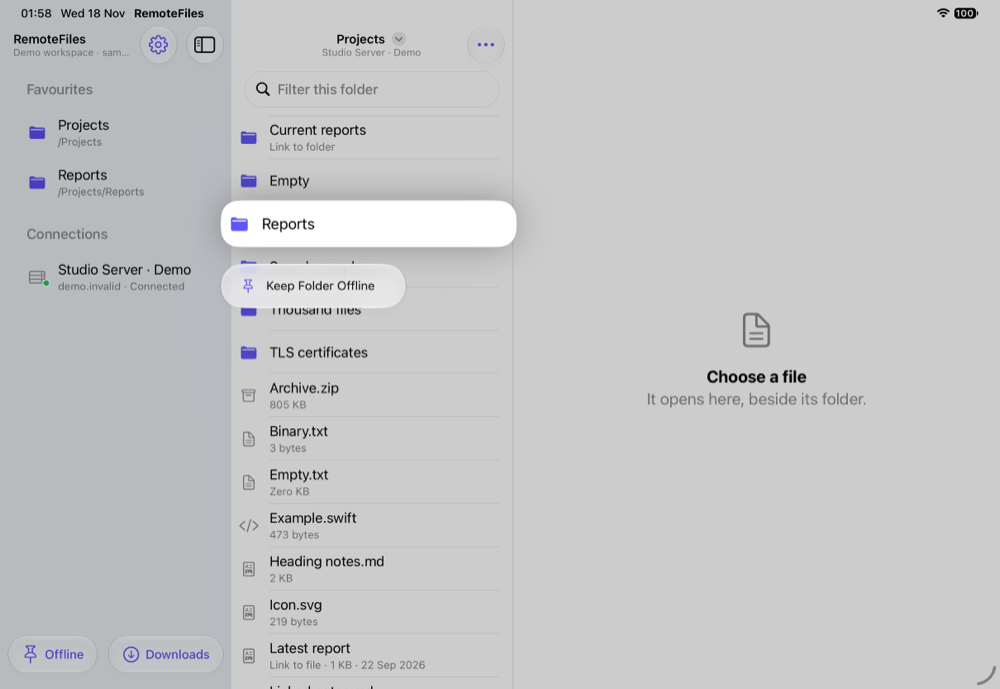
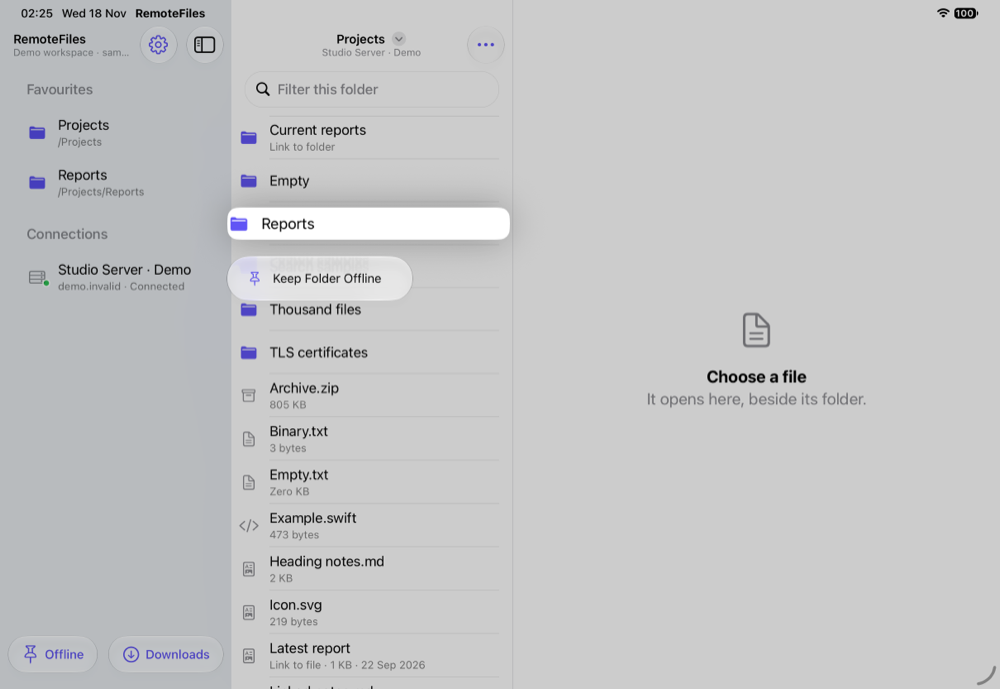
Fit the row preview to the row and correct the iPad record
The folder row's preview no longer reaches 8 points beyond the row; what
remains past the column edge is the system's lift. The session record now
names the build behind each run, separates the two HTML reading-position
tests from the five Markdown ones, says which hands-on checks match them,
and states per device what the offline and media checks covered.

Changed region(s): [[0.217, 0.2743, 0.527, 0.4572], [0.031, 0.0, 0.217, 0.0305]]

diff --git a/Sources/RemoteFilesUI/FolderView.swift b/Sources/RemoteFilesUI/FolderView.swift
@@ -430,7 +430,7 @@ struct FolderView: View {
         .disabled(destination == nil && resolving != nil)
         // On iPad the folder column's cells run on under the floating library, so the system's
         // preview of the whole cell, used without this shape, spread across both columns.
-        .contentShape(.contextMenuPreview, RoundedRectangle(cornerRadius: 12).inset(by: -8))
+        .contentShape(.contextMenuPreview, RoundedRectangle(cornerRadius: 12))
         .contextMenu {
             if let destination { OfflinePinActions(model: model, profile: profile, entry: destination, includeHidden: showHidden) }
         }

diff --git a/docs/MANUAL_ACCEPTANCE.md b/docs/MANUAL_ACCEPTANCE.md
@@ -11,7 +11,7 @@ Use a dedicated authorised test directory and the normal Mac account’s Remote 
 7. Profile a 1,000-entry folder and the generated 191,002-byte report on the device using Instruments SwiftUI / Animation Hitches. Record cold/warm timings, main-thread hitches and memory; do not interpret Simulator/loopback times as cellular performance. An attempt on the iPad recorded no app data before Instruments lost the device ([18 November iPad evidence](REAL_SERVER_ACCEPTANCE.md#18-november-2026-ipad-session)).
 8. In the authorised test directory, choose **Contents** and search a phrase inside a UTF-8 file whose name does not contain it. Check the source-line snippet, open/back retention, refresh after editing that file, hidden-file policy, cancellation on background/disconnect, and the partial-results explanation at a read limit. On iPad, verify the folder's search controls and snippets with the reader beside them, in a narrow window, with accessibility text sizes and VoiceOver. This journey passed on the iPad, including those iPad checks ([18 November iPad evidence](REAL_SERVER_ACCEPTANCE.md#18-november-2026-ipad-session)); it has not run on the iPhone.
 
-9. Save an individual file with **Keep Offline**, disconnect, relaunch and open it from **Offline Files** without network access. Verify its saved date, text/media controls and Share Original bytes. Use Find and Headings in a saved Markdown copy, zoom a saved image, and confirm a saved text or PDF copy reopens at its position after relaunch; these have only Simulator evidence. Update an authorized fixture, choose **Update Offline Copy**, and interrupt a later update: the last committed copy must remain readable. Remove only the local copy and verify the server original remains. Check Complete file protection while locked using a controlled device test; simulator permissions are not proof. Repeat the library flow in iPad regular and compact windows and with VoiceOver. On the iPhone everything except the file-protection check passed; an interrupted update gave no explanation until its time limit ([31 October evidence](REAL_SERVER_ACCEPTANCE.md#31-october-2026-iphone-session)). On the iPad the library flow passed, and the saved files could not be copied out of the app's container while the iPad was locked but could once it was unlocked ([18 November iPad evidence](REAL_SERVER_ACCEPTANCE.md#18-november-2026-ipad-session)); interrupting an update was not repeated there.
+9. Save an individual file with **Keep Offline**, disconnect, relaunch and open it from **Offline Files** without network access. Verify its saved date, text/media controls and Share Original bytes. Use Find and Headings in a saved Markdown copy, zoom a saved image, and confirm a saved text or PDF copy reopens at its position after relaunch. Update an authorized fixture, choose **Update Offline Copy**, and interrupt a later update: the last committed copy must remain readable. Remove only the local copy and verify the server original remains. Check Complete file protection while locked using a controlled device test; simulator permissions are not proof. Repeat the library flow in iPad regular and compact windows and with VoiceOver. On the iPhone, whose build then had no offline Find or Headings, the saved date, Share Original bytes, Update Offline Copy, an interrupted update and removal passed; the interrupted update gave no explanation until its time limit ([31 October evidence](REAL_SERVER_ACCEPTANCE.md#31-october-2026-iphone-session)). On the iPad the saved date, Find, Headings, image zoom, a plain-text position after relaunch, Share Original bytes, Update Offline Copy and removal passed in a regular window, and the saved files could not be copied out of the app's container while the iPad was locked but could once it was unlocked ([18 November iPad evidence](REAL_SERVER_ACCEPTANCE.md#18-november-2026-ipad-session)). A saved PDF's position after relaunch, an interrupted update, compact windows and VoiceOver in the offline library were not checked on the iPad.
 10. Choose **Keep Folder Offline** for a small controlled tree containing nested and empty directories, hidden files and symbolic links. Check the hidden-file choice and skipped-link count. Disconnect and browse the complete saved hierarchy; preview/share an original, background and relaunch. Change/add/delete remote members and choose **Update Offline Folder**; the replacement must include those changes. Interrupt an update or make a member unreadable and verify the old snapshot remains complete. Remove a saved folder while another window updates it and confirm it never reappears; independently saved files and overlapping snapshots must remain. Exercise a storage/depth limit and verify no partial folder is published. All but the multiwindow removal passed on the iPhone ([31 October evidence](REAL_SERVER_ACCEPTANCE.md#31-october-2026-iphone-session)); the multiwindow removal passed on the iPad ([18 November iPad evidence](REAL_SERVER_ACCEPTANCE.md#18-november-2026-ipad-session)). The storage and depth limits were not repeated there.
 11. While disconnected, follow relative Markdown links between saved sibling, nested and parent documents, plus same-document and linked heading fragments. Back must retain the source reading position. A missing/hidden/skipped target, unsupported type, query or path leaving the snapshot must explain the failure and retain the reader. Overlapping snapshots and individually saved copies must not substitute for folder members. Repeat between individual copies from the same saved connection route; other accounts/routes must not match. Update/remove an open source in another window and verify its file links require reopening. No file-link tap should reconnect or download missing content. The single-window cases passed on the iPhone; repeated link hops could exhaust the four offline preview leases ([31 October evidence](REAL_SERVER_ACCEPTANCE.md#31-october-2026-iphone-session)). On the iPad the link cases and eight hops in a row passed ([18 November iPad evidence](REAL_SERVER_ACCEPTANCE.md#18-november-2026-ipad-session)); the other-window and route cases were not checked.
 

diff --git a/docs/REAL_SERVER_ACCEPTANCE.md b/docs/REAL_SERVER_ACCEPTANCE.md
@@ -332,8 +332,10 @@ Not checked: iPad, and Escape on a hardware keyboard. Reduce Motion wasn't on th
 
 The first session on a physical iPad: an iPad Pro 11-inch (M5) (iOS 27.2.1, 24B156) against
 the MacBook Air's OpenSSH service, over Wi-Fi with a direct Tailscale route to the Mac's MagicDNS
-name. Automated runs used a signed Debug build of `9d131fe`; the hands-on pass used a signed
-Release build of the same commit. Fixtures were synthetic, generated for the session in a
+name. The first hosted core run used a signed Debug build of `d883793` (`main`). The runs after the
+store-key fix, the demo UI journeys and the Face ID check used a signed Debug build, and the
+hands-on pass a signed Release build, of the tree committed as `a3344ae`, before the offline reader
+and folder preview fixes. Fixtures were synthetic, generated for the session in a
 dedicated folder outside the repository and listed under [Setup](#ipad-setup).
 
 ### iPad setup
@@ -352,17 +354,19 @@ dedicated folder outside the repository and listed under [Setup](#ipad-setup).
 
 ### Automated on the device
 
-- **Hosted core suite** (`RemoteFilesTests`): 842 ran, 48 skipped (fixture-server, benchmark and
+- **Hosted core suite** (`RemoteFilesTests`, `d883793`): 842 ran, 48 skipped (fixture-server, benchmark and
   opt-in Face ID cases), 17 failed. The physical-only checks passed:
   `testTrustStoreWritesUseCompleteFileProtection`, `testDeviceKeychainPersistenceAndAccessibility`
   and `testBiometricKeychainItemIsStoredWithoutPromptingAndRemovable`.
   - Ten failures, about several windows and shared stores, came from the app's shared stores keying files by
     `standardizedFileURL.path`, which drops `/private` only once the shorter path exists. They
-    are fixed; see [CI history](CI_HISTORY.md#18-november-2026-shared-stores-on-a-device). After
-    the fix the six affected suites passed on the iPad (166 tests, three opt-in Face ID skips).
-  - Seven WebKit reading-position tests failed in both runs and remain open: two
-    `HTMLReadingPositionTests` (page zoom and root-zoom text size) and five `OverflowViewportTests`.
-    The same behaviours passed by hand (step 12 below).
+    are fixed; see [CI history](CI_HISTORY.md#18-november-2026-shared-stores-on-a-device). With the
+    fix (`a3344ae`) the six affected suites passed on the iPad (166 tests, three opt-in Face ID skips).
+  - Seven reading-position tests failed in both runs and remain open: two HTML
+    `HTMLReadingPositionTests` and five Markdown `OverflowViewportTests`. By hand, an HTML position
+    held through the reader's text size, rotation and window resizing (step 12 below), which
+    corresponds to the root-zoom test; nothing recorded matches the page-zoom test
+    (`WKWebView.pageZoom`) or the Markdown tests.
 - **Demo UI journeys** (`RemoteFilesUITests`): 13 passed, 22 failed, 1 skipped (the key import,
   which already skips on devices). The iPad workspace journey passed. Most failures are journeys
   written for the iPhone's stack navigation. Two looked iPad-specific: Subfolders → This Folder,
@@ -435,7 +439,7 @@ under Modifier Keys, so these results may differ from an attached keyboard.
 - **Folder row previews and focus rings spread across columns.** The folder column's cells run on
   under the floating library. The long-press preview now has its own shape; the keyboard focus
   ring, which the Simulator does not draw, is still too wide.
-- The keyboard and WebKit test findings above.
+- The keyboard and reading-position test findings above.
 
 | Offline reader before | Offline reader after |
 | --- | --- |
@@ -443,7 +447,7 @@ under Modifier Keys, so these results may differ from an attached keyboard.
 
 | Folder preview before | Folder preview after |
 | --- | --- |
-| <img src="screenshots/ipad/folder-preview-before.png" width="420" alt="Long-press preview of a folder row stretching from the screen edge across the library"> | <img src="screenshots/ipad/folder-preview-after.png" width="420" alt="The same preview inside the folder column"> |
+| <img src="screenshots/ipad/folder-preview-before.png" width="420" alt="Long-press preview of a folder row stretching from the screen edge across the library"> | <img src="screenshots/ipad/folder-preview-after.png" width="420" alt="The same preview following the row's bounds, overlapping the library divider by a few points"> |
 
 *Demo data on an iPad Pro 11-inch (M5) Simulator (iOS 27.2), reproducing what the device showed.*
 
@@ -457,7 +461,7 @@ under Modifier Keys, so these results may differ from an attached keyboard.
 
 Evidence on the MacBook Air: `/private/tmp/remotefiles-ipad-20261118/` holds the build and test
 logs, `core.xcresult` (first core run), `fix2.xcresult` (affected suites after the fix),
-`web.xcresult` (WebKit rerun), `ui.xcresult`, the four Face ID result bundles, `band-fixed` and
+`web.xcresult` (reading-position rerun), `ui.xcresult`, the four Face ID result bundles, `band-fixed` and
 `band-unfixed` (the offline regression with and without its fix), `session-log.md` (the hands-on
 record), the fixture and fixture-server scripts, `cold.trace`, and the iPad screenshots in
 `evidence/`, including the fixture server's log after the key change.

diff --git a/PREVIEW_STATUS.md b/PREVIEW_STATUS.md
@@ -6,9 +6,9 @@ This is a dated record of feature work and validation, not a live test dashboard
 
 An iPad Pro 11-inch (M5) (iOS 27.2.1) ran the hosted core suite and the demo UI journeys, and a hands-on pass against the MacBook Air over Tailscale ([18 November iPad session](docs/REAL_SERVER_ACCEPTANCE.md#18-november-2026-ipad-session)). Passed on the device: the Data Protection, Keychain and Face ID enrolment-change checks; the workspace, rotation, Stage Manager and two windows; accessibility; content search; offline files, including removing a saved folder in one window while another updates it and locked-file protection; HTML reading positions; a changed host key blocked before authentication; and ten media formats. Instruments recorded no data, so profiling remains outstanding.
 
-Three fixes came from the session. Shared stores now key files by one path spelling, so two windows on a library under `/private/var` share one store; released builds, whose library is under `/var`, were not affected, but ten multi-window tests failed on the device ([investigation](docs/CI_HISTORY.md#18-november-2026-shared-stores-on-a-device)). The Offline Files reader no longer leaves a blank band of about half the sheet above every saved text file. A folder row's long-press preview stays inside its column instead of spreading under the library.
+Three fixes came from the session. Shared stores now key files by one path spelling, so two windows on a library under `/private/var` share one store; released builds, whose library is under `/var`, were not affected, but ten multi-window tests failed on the device ([investigation](docs/CI_HISTORY.md#18-november-2026-shared-stores-on-a-device)). The Offline Files reader no longer leaves a blank band of about half the sheet above every saved text file. A folder row's long-press preview follows the row's bounds instead of the whole cell, which spread under the library.
 
-Open: seven WebKit reading-position tests fail on the device although the same behaviours passed by hand; most demo UI journeys assume the iPhone's stack navigation; through Universal Control, Tab reached only the folder search field, the arrows moved rows while that field was being edited, and the folder column's focus ring ran on under the library.
+Open: seven reading-position tests fail on the device, two HTML and five Markdown; by hand an HTML position held through text size, rotation and resizing, but nothing recorded matches the page-zoom or Markdown tests; most demo UI journeys assume the iPhone's stack navigation; through Universal Control, Tab reached only the folder search field, the arrows moved rows while that field was being edited, and the folder column's focus ring ran on under the library.
 
 `swift test` passed on macOS for the two new store-key regressions and `SearchIndexStoreTests`, and both regressions failed without the fix. On the iPad, `AppModelLifecycleTests`, `StateAndPersistenceTests`, `OfflineFileTests`, `SearchIndexStoreTests`, `DownloadManagerTests` and `IdentityTests` passed after it (166 tests, three opt-in skips). On an iPad Pro 11-inch (M5) Simulator (iOS 27.2), `testOfflineCopyFindsTextAndListsHeadings` passed with the offline reader fix and failed without it (a 266-point gap).
 

diff --git a/docs/CI_HISTORY.md b/docs/CI_HISTORY.md
@@ -38,18 +38,18 @@ each platform (the temporary folder on a device, `/private/tmp` elsewhere). With
 failed under `swift test` on macOS (four failures); with it they pass there and on the iPad, where
 the six affected suites then passed (166 tests, three opt-in Face ID skips).
 
-**Not fixed.** Seven WebKit reading-position tests failed in both device runs:
+**Not fixed.** Seven reading-position tests failed in both device runs. Two are HTML (WebKit):
 `HTMLReadingPositionTests.testTextAnchorRestoresAfterPageZoomChangesCSSPixelScale` and
 `testTextAnchorRestoresAfterRootZoomTextSizeChanges` (the attached renderer never reached the
 expected state in 15 seconds; at page zoom 1.6 the content widened to 576 points instead of
-reflowing), and five `OverflowViewportTests` (`testDominantCodeBlockReturnsAcrossRepeatedSourceSwitches`,
+reflowing). Five are Markdown, through the Textual reader: `OverflowViewportTests` (`testDominantCodeBlockReturnsAcrossRepeatedSourceSwitches`,
 `testDominantTableReturnsAcrossRepeatedSourceSwitches`,
 `testLargeFastJumpKeepsVisibleProseAnchorAndSourceReturnRestoresSameCharacter`,
 `testProseBoundaryAnchorRestoresTheSameViewport`,
-`testReadingAnchorRestorationWaitsForTheReplacementViewportToAttach`). The same behaviours passed by
-hand on the iPad ([18 November session](REAL_SERVER_ACCEPTANCE.md#18-november-2026-ipad-session)),
-so the hosted fixtures' assumptions about WebKit on a device need investigating before these can
-count as device evidence.
+`testReadingAnchorRestorationWaitsForTheReplacementViewportToAttach`). By hand on the iPad an HTML
+position held through text size, rotation and resizing ([18 November session](REAL_SERVER_ACCEPTANCE.md#18-november-2026-ipad-session)),
+matching the root-zoom test; nothing recorded matches the page-zoom test or the Markdown tests. Both groups need investigating on a device before
+they can count as device evidence.
 
 **UI journeys on the iPad.** The demo `RemoteFilesUITests` class passed 13, failed 22 and skipped 1
 on the device. Most failures assert the iPhone's stack navigation (navigation bar titles, Back

diff --git a/docs/FOLDER_BROWSING.md b/docs/FOLDER_BROWSING.md
@@ -107,7 +107,7 @@ Try **Explore Demo → Projects → Search samples** and search contents for `IN
 
 <img src="screenshots/folder-browsing/pdf-result-matching-page-simulator.png" width="240" alt="Text sample.pdf opened from its search result, with the page indicator showing Page 2 of 2">
 
-*Opening the embedded-text result shows its matching page. Captured from the passing UI test on an iPhone 18 Pro Simulator running iOS 27.2. Content search passed on a physical iPad ([18 November iPad session](REAL_SERVER_ACCEPTANCE.md#18-november-2026-ipad-session)); the iPhone has not been checked.*
+*Opening the embedded-text result shows its matching page. Captured from the passing UI test on an iPhone 18 Pro Simulator running iOS 27.2. The manual UTF-8 content-search journey passed on a physical iPad ([18 November iPad session](REAL_SERVER_ACCEPTANCE.md#18-november-2026-ipad-session)); it has not run on the iPhone.*
 
 Both options are off for an ordinary live search. OCR uses up to three supported device-preferred languages, falling back to English when none match. If Vision's accurate model cannot run, its fast model gets one attempt within the original time budget; cancellation never starts that fallback. The fast model supports fewer languages and can be less accurate. OCR can miss or misread text, especially handwriting, small text, unusual layouts and low-quality scans. Only the first frame of a multi-frame image is searched. Archives, audio and video remain unsupported, and encrypted or invalid PDFs cannot be searched. No document bytes or recognized text are sent to an OCR service.
 

diff --git a/docs/HTML_PREVIEWS.md b/docs/HTML_PREVIEWS.md
@@ -111,8 +111,10 @@ both overlay checks), 3 HTML rendering/security tests and 7 reading-history test
 passed in `/private/tmp/remotefiles-html-anchor-fix-1.xcresult` (38 tests, no
 skips); two further HTML iterations passed in `remotefiles-html-anchor-fix-2.xcresult`
 (30 tests). This is focused simulator evidence, not a full acceptance-lane pass.
-On a physical iPad the anchor checks passed by hand ([18 November iPad session](REAL_SERVER_ACCEPTANCE.md#18-november-2026-ipad-session)), but the two hosted
-zoom tests fail there and remain open; the iPhone has not been checked.
+On a physical iPad the anchor checks passed by hand, including text size, rotation and window
+resizing ([18 November iPad session](REAL_SERVER_ACCEPTANCE.md#18-november-2026-ipad-session)), but the two hosted zoom tests fail
+there and remain open; nothing recorded by hand matches the page-zoom test, and the iPhone has not
+been checked.
 
 Hosted WebKit tests check static content and styling, script and resource blocking, and the explanation for script-only entries. A demo UI journey checks switching modes, copying source and refreshing. These are simulator checks; they do not establish physical-device HTML interaction.
 

diff --git a/docs/AUDIO_VIDEO.md b/docs/AUDIO_VIDEO.md
@@ -65,7 +65,7 @@ assets, seeking, cache unlinking, cancellation, damaged refreshes, runtime
 failures and background cleanup. UI tests exercise both demo formats and their
 visible Play/Pause controls. On a physical iPad, generated H.264/AAC MP4 and MOV, HEVC, a
 90-degree rotated video, M4A, MP3, WAV, FLAC, AIFF and ADTS AAC files all played ([18 November iPad session](REAL_SERVER_ACCEPTANCE.md#18-november-2026-ipad-session));
-other codecs and the iPhone still need device testing.
+the iPhone has played photos and a rotated video ([7 November](REAL_SERVER_ACCEPTANCE.md#7-november-2026-media-and-certificate-pass)), but the rest of this codec list and other codecs still need testing on it.
 
 ## Verification
 
